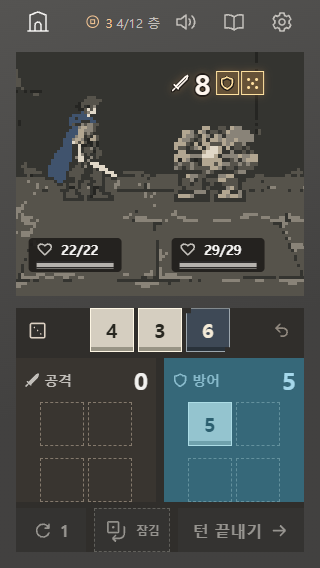
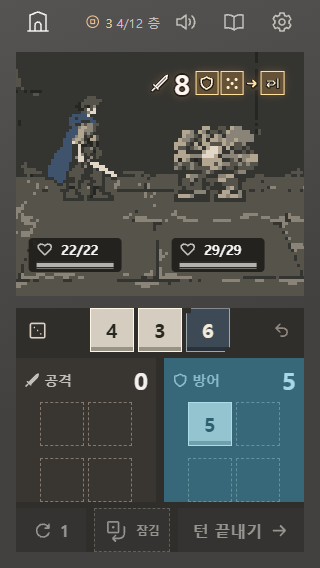
기믹 효과 예고와 적 상태 표시를 개선

Changed region(s): [[0.5, 0.1197, 0.9062, 0.1796], [0.4688, 0.1496, 0.5, 0.1796]]

diff --git a/src/main.ts b/src/main.ts
@@ -25,7 +25,7 @@ import type { Reward, RewardChoice } from './rewards.ts'
 import {
   allocationPower, assignDie, attackFor, chargedStrikePreview, combatSlots, DIE_COUNT, enemyIntentAt, incomingAttack, splitEnemyDamage,
 } from './combat.ts'
-import type { Exchange, SlotTotals } from './combat.ts'
+import type { Exchange, Gimmick, SlotTotals } from './combat.ts'
 import { collectorBonus, offerPerks, START_PERKS } from './perks.ts'
 import type { Parity } from './perks.ts'
 import {
@@ -91,6 +91,7 @@ const ui = {
   enemyHp: element<HTMLMeterElement>('enemy-hp'),
   playerTotal: element('player-total'),
   enemyTotal: element('enemy-total'),
+  enemyStatus: element('enemy-status'),
   escortGuard: element('escort-guard'),
   escortGuardVital: element('escort-guard-vital'),
   escortGuardTotal: element('escort-guard-total'),
@@ -240,6 +241,13 @@ const enemyBadges: Record<string, { icon: string; label: string }> = {
   ...MAP_ENEMY_BADGES,
 }
 const rulesSixBadges: Partial<typeof enemyBadges> = RULES_SIX_BADGES
+const gimmickEffects = {
+  trip: { icon: 'stun', help: '적의 다음 공격을 한 번 건너뛰어요.' },
+  armor: { icon: 'armor-break', value: '×1.5', help: '다음 턴부터 공격 피해가 1.5배예요.' },
+  reflect: { icon: 'reflect', help: '철추 피해를 적에게 돌려줘요.' },
+  topple: { icon: 'knockdown', value: '×2', help: '다음 턴에 적이 쉬고 공격 피해가 2배예요.' },
+  retreat: { icon: 'escort-exit', help: '호위가 물러나고 공격이 본체에 닿아요.' },
+} satisfies Record<Gimmick, { icon: string; value?: string; help: string }>
 
 let ascent: Ascent | null = null
 let chosenReward: Reward | undefined
@@ -370,7 +378,7 @@ function stopHolding() {
 }
 function showHelp(target: HTMLElement) {
   helpTarget = target
-  holdHelp.textContent = target.getAttribute('aria-label')
+  holdHelp.textContent = target.dataset.helpText ?? target.getAttribute('aria-label')
   holdHelp.hidden = false
   const bounds = target.getBoundingClientRect()
   const width = holdHelp.offsetWidth
@@ -588,6 +596,22 @@ function hitNumbers(hits: readonly number[]) {
   return groups.map(({ damage, count }) => count === 1 ? String(damage) : `${damage}×${count}`).join(' + ')
 }
 
+function renderEnemyStatus(battle: YachtBattle) {
+  const statuses: string[] = []
+  const chip = (kind: 'trip' | 'armor' | 'topple', label: string, count: string) =>
+    `<span class="enemy-status-chip" data-status="${kind}" role="img" aria-label="${label}">${icon(gimmickEffects[kind].icon)}<b>${count}</b></span>`
+  if (battle.rulesSix && battle.enemyHp > 0 && (battle.phase === 'assign' || battle.phase === 'counter')) {
+    const interruption = battle.interrupted?.kind
+    if (interruption === 'trip') statuses.push(chip('trip', '기절 · 공격 1회 남음', '1'))
+    if (interruption === 'topple' || (battle.phase === 'assign' && enemyIntentAt(battle).id === 'knockdown')) {
+      statuses.push(chip('topple', '넘어짐 · 1턴 남음', '1'))
+    }
+    if (battle.armorBroken) statuses.push(chip('armor', '갑옷 파괴 · 전투가 끝날 때까지', '∞'))
+  }
+  ui.enemyStatus.innerHTML = statuses.join('')
+  ui.enemyStatus.hidden = !statuses.length
+}
+
 function renderIntent(battle: YachtBattle, totals: SlotTotals, enemyId: string) {
   const badge = (battle.rulesSix && rulesSixBadges[enemyId]) || enemyBadges[enemyId]
   const clause = battle.phase === 'assign' ? yachtGimmick(battle) : null
@@ -597,13 +621,22 @@ function renderIntent(battle: YachtBattle, totals: SlotTotals, enemyId: string) 
   ui.encounter.dataset.gimmick = clause?.kind ?? ''
   ui.encounter.classList.toggle('gimmick-ready', ready)
   ui.encounter.classList.toggle('armor-broken', Boolean(battle.armorBroken))
-  const mark = clause ? `<span class="gimmick-mark" data-kind="${clause.kind}" data-ready="${ready}" aria-hidden="true"><i>${icon(clause.slot === 'guard' ? 'shield' : 'sword')}</i><i>${clause.face === null ? icon('stacked-pair') : `<span class="gimmick-die" data-face="${clause.face}">${'<b></b>'.repeat(clause.face)}</span>`}</i></span>` : ''
+  const effect = clause ? gimmickEffects[clause.kind] : undefined
+  const multiplier = effect && 'value' in effect ? `<b>${effect.value}</b>` : ''
+  const mark = clause && effect ? `<span class="gimmick-mark" data-kind="${clause.kind}" data-ready="${ready}" aria-hidden="true">
+    <i>${icon(clause.slot === 'guard' ? 'shield' : 'sword')}</i>
+    <i>${clause.face === null ? icon('stacked-pair') : `<span class="gimmick-die" data-face="${clause.face}">${'<b></b>'.repeat(clause.face)}</span>`}</i>
+    <span class="gimmick-arrow">${icon('next')}</span><span class="gimmick-effect">${icon(effect.icon)}${multiplier}</span>
+  </span>` : ''
+  if (effect) ui.intent.dataset.helpText = effect.help
+  else delete ui.intent.dataset.helpText
+  ui.intent.setAttribute('role', effect ? 'button' : 'img')
   const display = (symbol: string, value: string, label: string, detail = badgeIcon) => {
     const secondary = detail ? `<span class="intent-detail">${detail}</span>` : ''
     const priority = escort ? `<span class="intent-detail intent-escort" aria-hidden="true">${icon('sword')}${icon('next')}${icon('escort')}<span class="intent-escort-hp">${escort.hp}</span></span>` : ''
     ui.intent.innerHTML = `<span>${icon(symbol)}${value ? `<strong>${value}</strong>` : ''}</span>${secondary}${mark}${priority}`
     const condition = clause ? ` · ${clause.name} · ${clause.slot === 'attack' ? '공격' : '방어'} ${clause.face ?? '같은 눈 둘'}${ready ? ' · 성립' : ''}` : ''
-    ui.intent.setAttribute('aria-label', `${badge.label} · ${label}${condition}`)
+    ui.intent.setAttribute('aria-label', `${badge.label} · ${label}${condition}${effect ? ` · ${effect.help}` : ''}`)
     if (escort) ui.intent.setAttribute('aria-description', `공격 대상 1순위 호위병 · 생존 시 적 공격 +${escort.bonus}`)
     else ui.intent.removeAttribute('aria-description')
   }
@@ -637,7 +670,7 @@ function renderIntent(battle: YachtBattle, totals: SlotTotals, enemyId: string) 
       return
     }
     if (intent.id === 'stunned') {
-      display('knockdown', '0', '기절해서 공격을 쉬어요.', '')
+      display('stun', '0', '기절해서 공격을 쉬어요.', '')
       return
     }
     if (intent.id === 'critical' && battle.erasedStrikeTurn === battle.turn) {
@@ -1400,6 +1433,7 @@ function render(presentation: 'normal' | 'unlock' = 'normal', rollTurn = false) 
   ui.encounterName.hidden = enemy.id !== 'chain-warden'
   ui.encounterName.textContent = enemy.id === 'chain-warden' ? RULES_SIX_BADGES[enemy.id].label : ''
   renderIntent(battle, totals, enemy.id)
+  renderEnemyStatus(battle)
   updateVital(ui.playerHp, ui.playerTotal, playerHp, maxHp)
   updateVital(ui.enemyHp, ui.enemyTotal, enemyHp, enemy.hp)
   ui.escortGuard.hidden = !battle.escort || enemyHp <= 0

diff --git a/src/style.css b/src/style.css
@@ -399,6 +399,7 @@ main[data-screen='battle'] {
   flex: 0 1 calc(20dvh + 24px);
   min-block-size: 0;
 }
+[data-screen='reward'] #battle:has(.boss-reward)::after { flex-basis: calc(20dvh + 12px); }
 #reward-panel.battle-reward { flex: none; margin: auto; }
 
 #reward-panel {
@@ -452,25 +453,27 @@ main[data-screen='battle'] {
 .reward-card:focus-visible { outline-offset: 2px; }
 .empty-reward { opacity: .5; }
 
-#reward-panel.boss-reward { inline-size: min(100%, 540px); gap: 8px; }
+#reward-panel.boss-reward { inline-size: min(100%, 540px); gap: clamp(10px, 1.5dvh, 14px); }
 .boss-reward #reward-cards { display: grid; grid-template-columns: repeat(2, minmax(0, 1fr)); }
 .boss-reward .reward-card {
   grid-template-columns: auto 1fr;
   grid-template-rows: auto auto;
   justify-items: start;
   align-content: center;
-  column-gap: 6px;
+  column-gap: clamp(6px, 2vw, 10px);
   inline-size: 100%;
-  min-block-size: 55px;
+  min-block-size: clamp(72px, 10.7dvh, 96px);
   aspect-ratio: auto;
-  padding: 5px 7px;
+  padding: 7px clamp(8px, 2.5vw, 14px);
   text-align: left;
-  font-size: .88rem;
+  font-size: clamp(.88rem, 3.9vw, 1rem);
+  border: 1px solid #715b43;
   background: #423528;
   color: #ffe0ae;
 }
-.boss-reward .reward-card .icon { grid-row: span 2; inline-size: 22px; block-size: 22px; }
+.boss-reward .reward-card .icon { grid-row: span 2; inline-size: clamp(22px, 7vw, 28px); block-size: clamp(22px, 7vw, 28px); }
 .boss-reward .reward-card small { color: #ddc3a3; }
+.boss-reward .reward-card[aria-pressed='true'] { background: #58442e; }
 .reward-actions:has(#skip-reward[hidden]) { grid-template-columns: 1fr; }
 
 #reward-preview {
@@ -649,16 +652,19 @@ main[data-screen='battle'] {
 #intent .intent-escort { color: #f6c795; white-space: nowrap; }
 #encounter-name { position: absolute; z-index: 1; inset: 10px auto auto 10px; color: #f9d9ab; font-size: .9rem; }
 #intent .gimmick-mark { gap: 2px; padding-inline: 2px; color: #ffdf9f; }
-.gimmick-mark i {
+.gimmick-mark i, #intent .gimmick-effect {
   display: grid;
   place-items: center;
-  inline-size: 23px;
+  min-inline-size: 23px;
   block-size: 24px;
   background: #302922;
   border: 1px dashed #c09964;
 }
 #intent .gimmick-mark .icon { inline-size: 16px; block-size: 16px; }
-.gimmick-mark[data-ready='true'] i { border-style: solid; border-color: #ffe2a0; background: #665237; }
+#intent .gimmick-mark .gimmick-arrow .icon { inline-size: 13px; block-size: 13px; }
+#intent .gimmick-effect { display: inline-flex; justify-content: center; gap: 2px; padding-inline: 3px; }
+.gimmick-effect b { font-size: .75rem; -webkit-text-stroke: 0; }
+#intent .gimmick-mark[data-ready='true'] :is(i, .gimmick-effect) { border-style: solid; color: #fff0ca; border-color: #ffe2a0; background: #665237; }
 #intent .gimmick-die { display: grid; grid-template: repeat(3, 3px) / repeat(3, 3px); place-items: center; gap: 1px; }
 .gimmick-die b { inline-size: 3px; block-size: 3px; background: currentColor; border-radius: 50%; }
 .gimmick-die b:first-child { grid-area: 2 / 2; }
@@ -692,6 +698,27 @@ main[data-screen='battle'] {
 }
 
 .vital .icon { color: var(--muted); }
+
+.enemy-status {
+  position: absolute;
+  inset-inline-end: 0;
+  inset-block-end: calc(100% + 3px);
+  display: flex;
+  gap: 3px;
+}
+.enemy-status-chip {
+  display: inline-flex;
+  align-items: center;
+  justify-content: center;
+  gap: 3px;
+  min-inline-size: 31px;
+  padding: 1px 4px;
+  border: 1px solid #ac855a;
+  background: #352a22;
+  color: #ffe0ae;
+  font-size: .72rem;
+}
+.vital .enemy-status-chip .icon { inline-size: 14px; block-size: 14px; color: inherit; }
 
 .escort-guard .vital {
   display: flex;

diff --git a/index.html b/index.html
@@ -39,6 +39,10 @@
       <symbol id="icon-critical" viewBox="0 0 24 24"><path vector-effect="non-scaling-stroke" d="m5 18-3 3m2-7 5 5m-3-3L18 4l2-1-1 4L8 18M11 4v3M9.5 5.5h3M19 13v4m-2-2h4"/></symbol>
       <symbol id="icon-charge" viewBox="0 0 24 24"><path vector-effect="non-scaling-stroke" d="m3 4 5 5V5M3 9h5m13-5-5 5V5m5 4h-5M3 20l5-5v4m-5-4h5m13 5-5-5v4m5-4h-5m-4-6 2 3-2 3-2-3Z"/></symbol>
       <symbol id="icon-knockdown" viewBox="0 0 24 24"><path vector-effect="non-scaling-stroke" d="M12 3v12m-5-5 5 5 5-5M4 20h16"/></symbol>
+      <symbol id="icon-stun" viewBox="0 0 24 24"><path d="M3 16c0-3 4-6 9-6s9 2 9 4-4 4-8 4c-3 0-5-1-5-2s2-2 4-2M6 4v4M4 6h4m9-3v4m-2-2h4"/></symbol>
+      <symbol id="icon-armor-break" viewBox="0 0 24 24"><path d="m8 4-5 4 2 5 3-1v8h8v-8l3 1 2-5-5-4M8 4l4 3 4-3m-3 4-3 4 4 2-2 5"/></symbol>
+      <symbol id="icon-reflect" viewBox="0 0 24 24"><path d="M20 5v14M4 9h9l3 3-3 3H4m3-3-3 3 3 3"/></symbol>
+      <symbol id="icon-escort-exit" viewBox="0 0 24 24"><path d="M11 5 6 3 2 5v5c0 3 2 6 4 7 2-1 4-4 4-7M12 13h9m-4-4 4 4-4 4"/></symbol>
       <symbol id="icon-shield" viewBox="0 0 24 24"><path vector-effect="non-scaling-stroke" d="M12 3c2.5 2 5 3 8 3v6c0 4-3.5 7-8 9-4.5-2-8-5-8-9V6c3 0 5.5-1 8-3Z"/></symbol>
       <symbol id="icon-crown" viewBox="0 0 24 24"><path d="m3 6 4 4 5-6 5 6 4-4-2 13H5Zm2 9h14"/></symbol>
       <symbol id="icon-scepter" viewBox="0 0 24 24"><path d="m4 21 10-11m-3-3 5-5 5 5-5 5Zm-5 8 3 3"/></symbol>
@@ -247,6 +251,7 @@
           <div class="combatant enemy">
             <output id="enemy-damage" class="damage-float" aria-hidden="true"></output>
             <div class="vital">
+              <span id="enemy-status" class="enemy-status" role="group" aria-label="적 상태" hidden></span>
               <label for="enemy-hp"><svg class="icon" aria-hidden="true"><use href="#icon-heart"/></svg><span id="enemy-total"></span></label>
               <span class="hp-track"><meter id="enemy-hp" min="0" aria-label="적 체력"></meter><span class="hp-trail" aria-hidden="true"></span></span>
             </div>

diff --git a/src/battle-guide.ts b/src/battle-guide.ts
@@ -102,11 +102,12 @@ export const BATTLE_GUIDE: readonly GuideSection[] = [
   {
     title: '적의 빈틈',
     entries: [
-      ['sword', '발목 걸기', '공격에 1을 놓으면 적의 다음 공격을 한 번 끊어요.'],
-      ['stacked-pair', '갑옷 벗기기', '같은 눈 두 개를 공격에 놓으면 다음 턴부터 공격 칸 피해가 1.5배예요.'],
-      ['shield', '되돌아온 철추', '방어에 5를 놓으면 예고한 철추 피해를 적이 받아요. 반사한 공격으로는 룰렛이 열리지 않아요.'],
+      ['stun', '발목 걸기', '공격에 1을 놓으면 적의 다음 공격을 한 번 끊어요.'],
+      ['armor-break', '갑옷 벗기기', '같은 눈 두 개를 공격에 놓으면 다음 턴부터 공격 칸 피해가 1.5배예요.'],
+      ['stacked-pair', '같은 눈 쌍', '같은 눈이 세 개여도 쌍 조건을 만족해요.'],
+      ['reflect', '되돌아온 철추', '방어에 5를 놓으면 예고한 철추 피해를 적이 받아요. 반사한 공격으로는 룰렛이 열리지 않아요.'],
       ['knockdown', '넘어뜨리기', '공격에 3을 놓으면 적이 다음 턴에 공격을 쉬고 공격 칸 피해를 두 배로 받아요.'],
-      ['escort', '호위 퇴각', '호위가 살아 있을 때 공격에 2를 놓으면 호위가 물러나고 같은 턴에 본체를 공격해요.'],
+      ['escort-exit', '호위 퇴각', '호위가 살아 있을 때 공격에 2를 놓으면 호위가 물러나고 같은 턴에 본체를 공격해요.'],
     ],
   },
   {

diff --git a/_return/2026-11-26-rules-v6/RETURN.md b/_return/2026-11-26-rules-v6/RETURN.md
@@ -2,6 +2,13 @@
 
 새 등반에는 규칙판 6을 시작한다. 해금에 따른 적 공격 가산은 0이다. 규칙판 1~5의 지도·적·보상은 저장된 규칙판으로 이어진다. 공개 모바일 검사가 들어 있는 `b17a3f1`을 `54fd21d`로 병합했다.
 
+## 효과 예고와 상태 표시
+
+- 다섯 예고에서 조건 바로 뒤에 화살표와 효과 아이콘을 붙였다. 갑옷 파괴와 넘어짐에는 각각 `×1.5`, `×2`를 표시한다. 배치가 맞으면 조건과 효과 테두리가 함께 밝아지고, 주사위를 빼면 다시 어두워진다. 예고를 탭하거나 길게 누르면 한 줄 설명이 열린다.
+- 발동한 기절·갑옷 파괴·넘어짐은 적 체력 카드 위에 남는다. 기절은 건너뛸 공격 횟수 `1`, 넘어짐은 남은 턴 `1`, 갑옷 파괴는 전투 종료까지 유지된다는 뜻으로 `∞`를 표시한다. 사진에는 갑옷 파괴와 제동 왕관의 넘어짐이 동시에 보인다.
+- 보스 유물 선택 묶음의 중심을 두 모바일 크기에서 화면 높이 40%에 맞췄다. 카드 높이는 320×568에서 72픽셀, 390×844에서 약 90픽셀이다.
+- `b0a18e1`의 소스를 따로 풀어 아래 8개 봇 시나리오를 현재 코드와 다시 실행했다. 시나리오당 4,096판에서 표준 출력 전체가 바이트 단위로 일치했다. 전투와 저장 규칙은 그대로다.
+
 ## 적용과 조정
 
 - 발목 걸기, 갑옷 벗기기, 되돌아온 철추, 넘어뜨리기, 호위 퇴각을 적용했다. 공격·방어 칸 아이콘과 눈·쌍 아이콘의 테두리는 확정 전 배치에 따라 여닫힌다. 확정 순간에는 기존 피격·정확 방어 연출과 효과음을 재사용한다. 다음 예고와 자세, 체력, 유물 소진 표시로 결과를 이어서 보인다.
@@ -39,9 +46,9 @@
 
 ## 시험과 사진
 
-- `npm ci`와 `npm run build`를 마쳤다. `npm test` 153개와 `npm run smoke` 8개를 통과했다. 두 모바일 화면은 창을 띄우지 않은 Edge에서 검사했다.
+- `npm ci`와 `npm run build`를 마쳤다. `npm test` 153개와 `npm run smoke` 10개를 통과했다. 두 모바일 화면은 창을 띄우지 않은 Edge에서 검사했다.
 - 기믹 5종의 성립과 칸·눈 반례, 반사와 룰렛의 중복 방지, 5층 양쪽 및 6층 유물 선택 전후 저장, 갑옷 파괴 저장, 심장 소진 뒤 두 번째 치명 피해, 제동 왕관 직전 룰렛 저장, 1~5 구판 이어 하기를 확인했다.
-- 모바일에서 실제 주사위를 넣고 빼며 예고 테두리를 확인했다. 6층 전투 화면의 마지막 턴을 확정해 보상으로 진입하고, 보상 미리보기를 새로고침한 뒤 선택해 7층을 열었다. 이 검사는 재현용 저장에서 시작했다.
+- 모바일에서 실제 주사위를 넣고 빼며 예고 테두리를 확인했다. 한 번 탭하기와 길게 누르기, 발동 직후 상태와 턴 경과 뒤 해제, 저장 복원 뒤 남은 상태를 확인했다. 6층 전투 화면의 마지막 턴을 확정해 보상으로 진입하고, 보상 미리보기를 새로고침한 뒤 선택해 7층을 열었다. 이 검사는 재현용 저장에서 시작했다.
 
 | 장면 | 390×844 | 320×568 |
 | --- | --- | --- |
@@ -50,6 +57,7 @@
 | 되돌아온 철추 | [사진](390×844-reflect.png) | [사진](320×568-reflect.png) |
 | 넘어뜨리기 | [사진](390×844-topple.png) | [사진](320×568-topple.png) |
 | 호위 퇴각 | [사진](390×844-retreat.png) | [사진](320×568-retreat.png) |
+| 적 상태 아이콘 | [사진](390×844-enemy-status.png) | [사진](320×568-enemy-status.png) |
 | 쇠사슬 집행관 전투 | [사진](390×844-midboss.png) | [사진](320×568-midboss.png) |
 | 보스 유물 선택 | [사진](390×844-boss-reward.png) | [사진](320×568-boss-reward.png) |
 | 강적 갈림길 | [사진](390×844-elite-fork.png) | [사진](320×568-elite-fork.png) |
